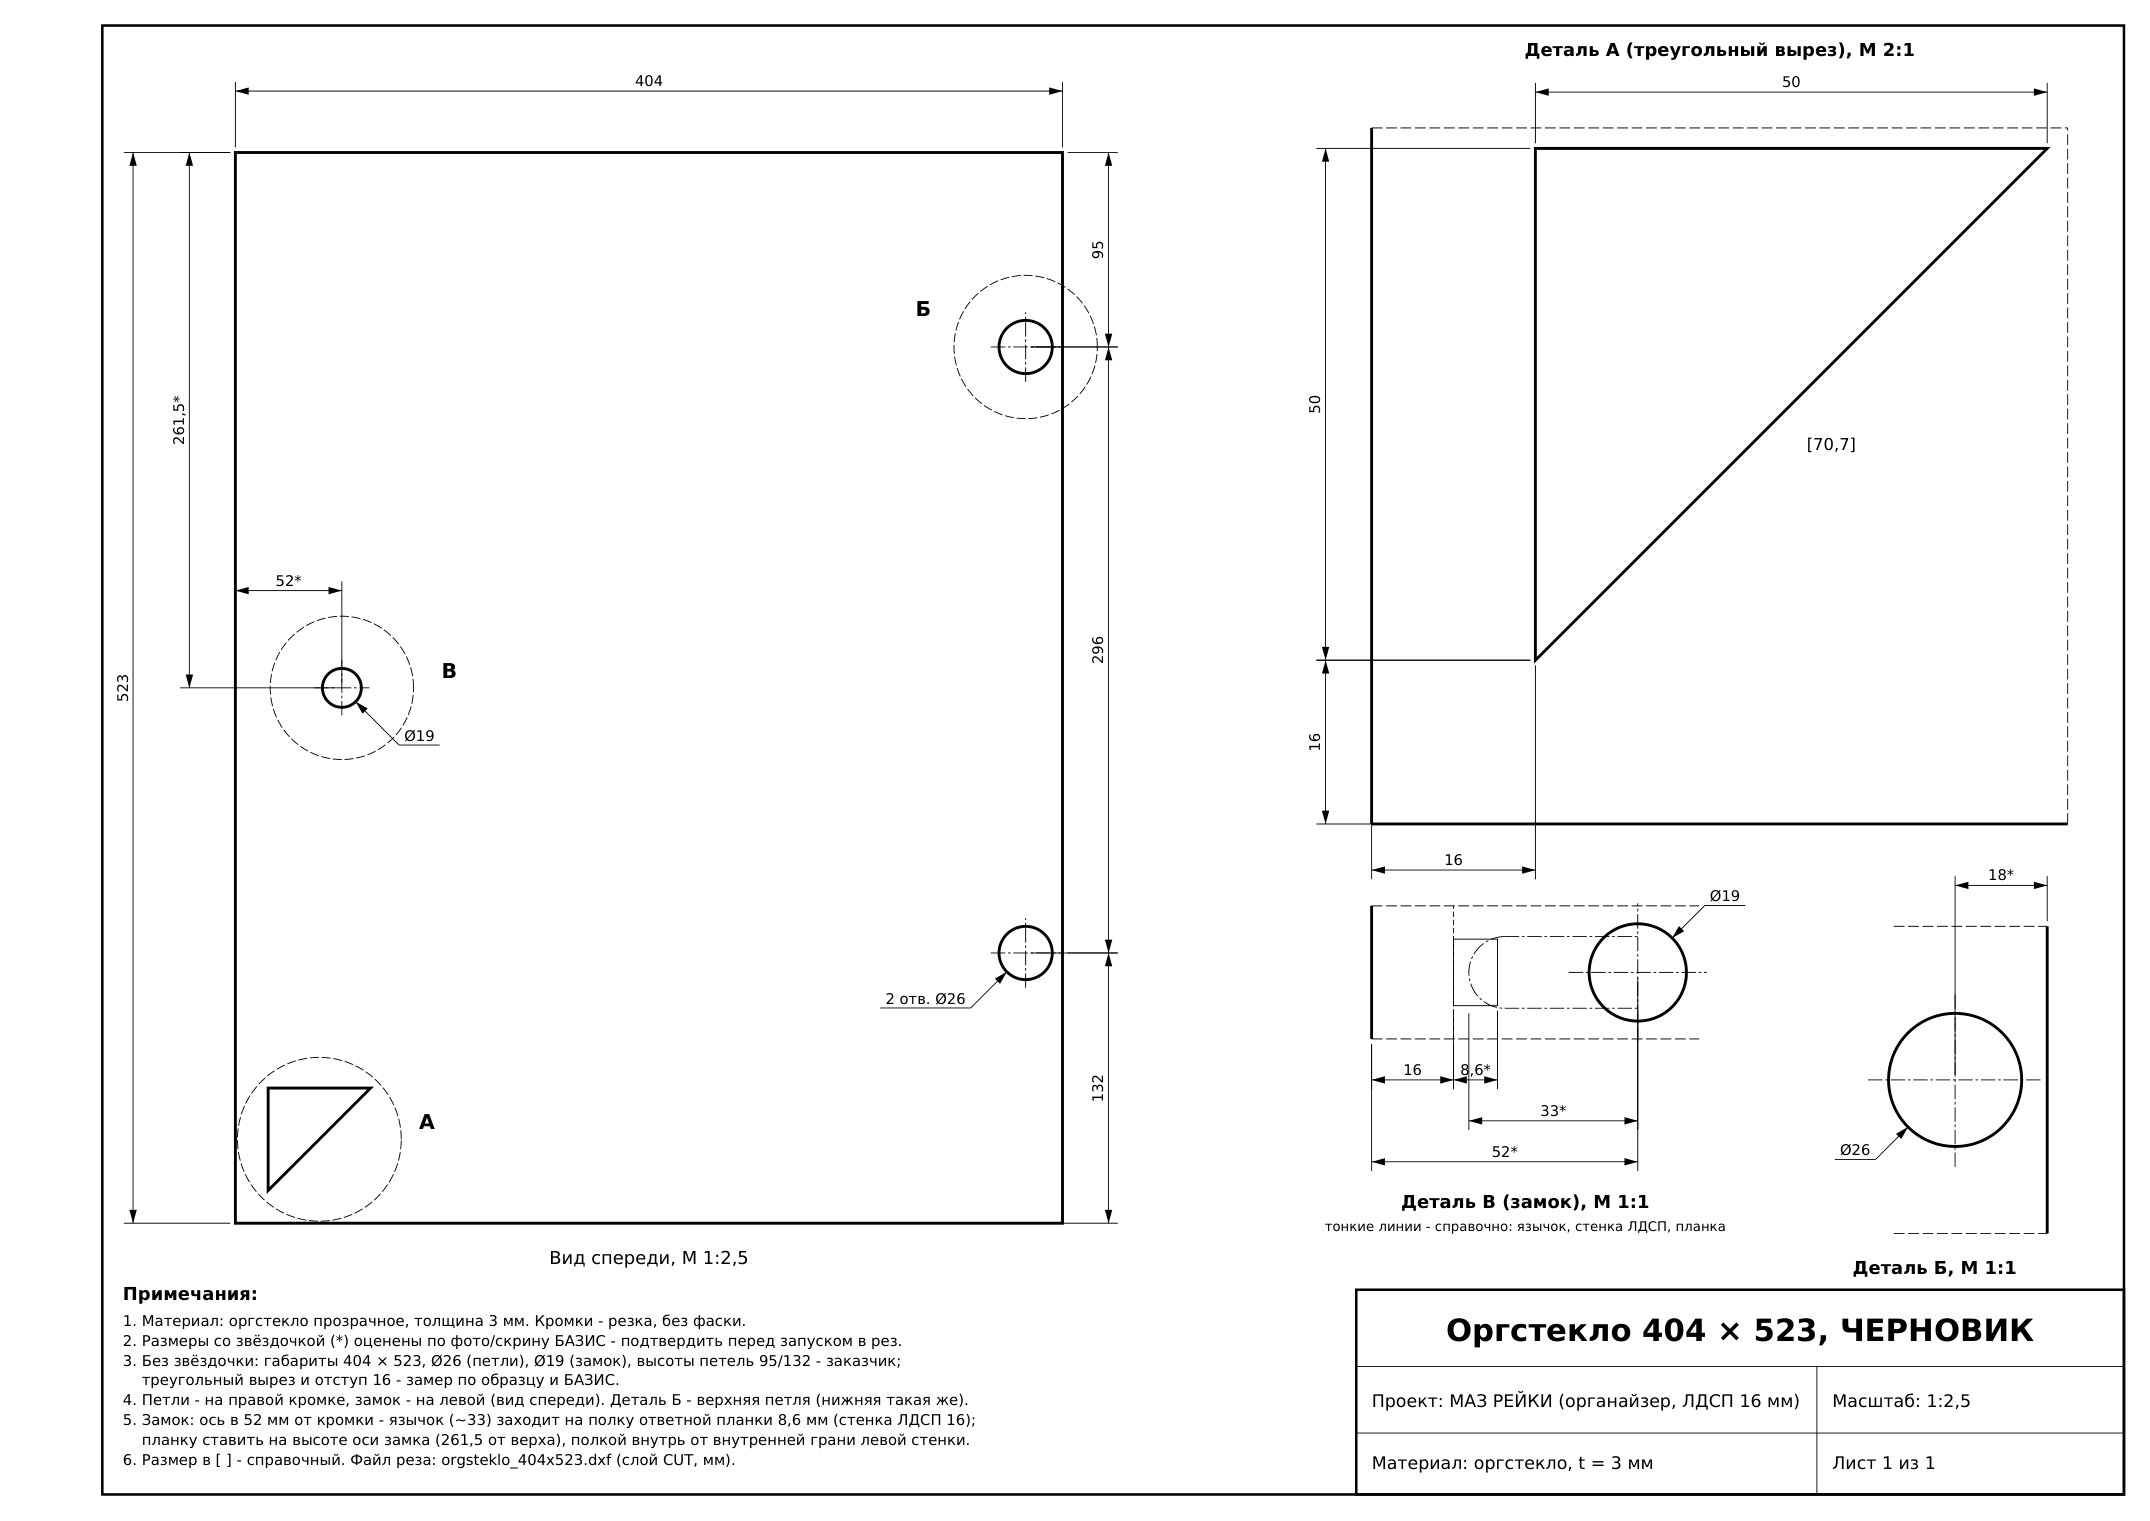
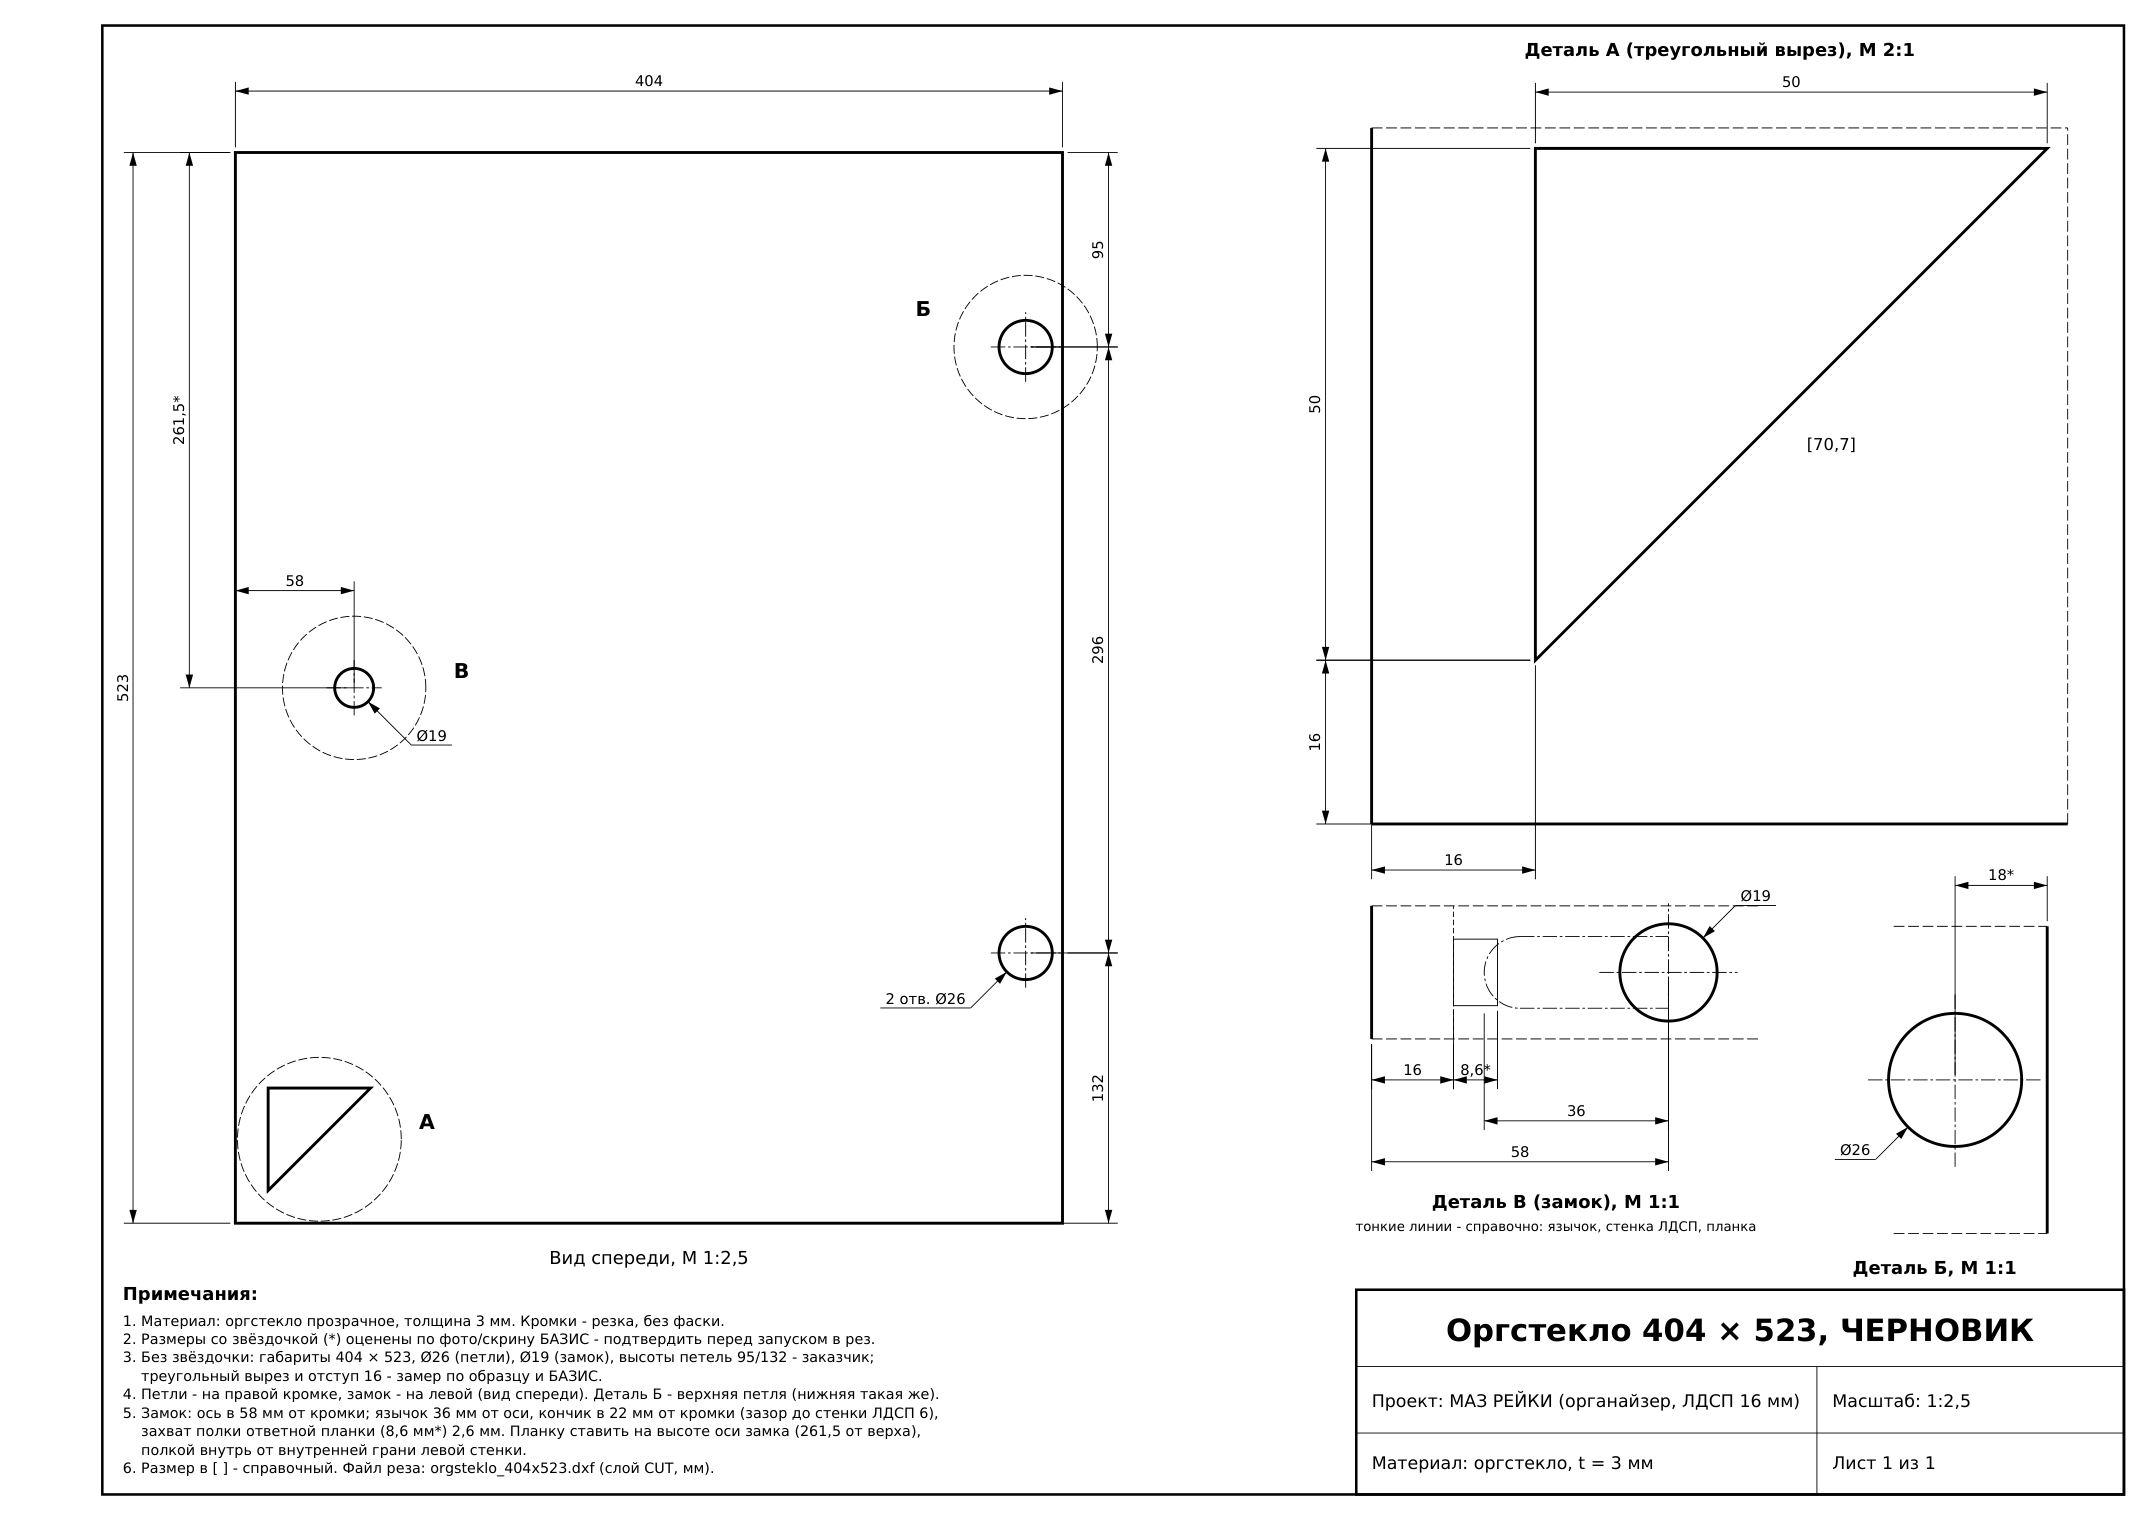
Shift lock 6 mm right: tab is 36 mm from axis, not 33
Lock axis now 58 mm from the left edge (tab tip 22 mm from the edge,
6 mm clearance to the panel, 2.6 mm engagement with the strike flange).

Claude-Session: https://claude.ai/code/session_01QVuusPSQmi2SUDWLHP9VEv

diff --git a/orgsteklo/make_drawing.py b/orgsteklo/make_drawing.py
@@ -38,15 +38,15 @@ P = dict(
     hinge_from_bottom=132.0, # * от нижней кромки до центра нижней петли - оценка по скрину БАЗИС
     # отверстие под замок (у левой кромки)
     lock_d=19.0,      # Ø под замок, круглое, без лысок - подтверждено заказчиком
-    lock_x=52.0,      # * ось замка от левой кромки - РАСЧЁТ, см. lock_calc() ниже
+    lock_x=58.0,      # ось замка от левой кромки = panel_t + tab_gap + tab_len (см. lock_calc)
     lock_from_top=261.5,  # * высота оси замка (середина) - на этой же высоте ставить планку
     # --- исходные данные для расчёта положения замка (по фото) ---
     panel_t=16.0,     # толщина ЛДСП: внутренняя грань левой стенки на x = 16 от кромки листа
-    tab_len=33.0,     # * вылет язычка от оси (фото: 31-36 мм, берём середину)
+    tab_len=36.0,     # вылет язычка от оси до кончика - подтверждено заказчиком
     tab_w=14.0,       # * ширина язычка (справочно)
     flange=8.6,       # * полка Г-образной ответной планки (фото 10), длина планки ~13 мм
     flange_len=13.0,
-    tab_gap=3.0,      # * на сколько кончик язычка отстоит от стенки (нужен зазор на поворот)
+    tab_gap=6.0,      # зазор кончик язычка - стенка; сдвиг замка на 6 мм вправо - по указанию заказчика
 )
 
 HERE = os.path.dirname(os.path.abspath(__file__))
@@ -299,7 +299,7 @@ def make_pdf(path, p=P):
     # привязка замка
     v.vdim(H - p["lock_from_top"], H, 0, -9, fmt(p["lock_from_top"]) + "*",
            x1=g["lock"][0], x2=0)
-    v.hdim(0, p["lock_x"], g["lock"][1], 19, fmt(p["lock_x"]) + "*",
+    v.hdim(0, p["lock_x"], g["lock"][1], 19, fmt(p["lock_x"]),
            y1=g["lock"][1], y2=g["lock"][1])
     # выноски
     v.leader(g["hinges"][1], hr, -135, 10, "2 отв. Ø" + fmt(hd), align="left")
@@ -367,8 +367,8 @@ def make_pdf(path, p=P):
     q = View(c, vx0, vy0, 1.0)
     hh = 13
     q.line((0, -hh), (0, hh))                                   # левая кромка листа
-    q.line((0, hh), (64, hh), THIN, [6, 2])                     # границы фрагмента
-    q.line((0, -hh), (64, -hh), THIN, [6, 2])
+    q.line((0, hh), (76, hh), THIN, [6, 2])                     # границы фрагмента
+    q.line((0, -hh), (76, -hh), THIN, [6, 2])
     q.circle((p["lock_x"], 0), p["lock_d"] / 2)                 # отверстие под замок
     q.centermarks((p["lock_x"], 0), p["lock_d"] / 2)
     tw, tl = p["tab_w"] / 2, p["tab_len"]
@@ -382,27 +382,31 @@ def make_pdf(path, p=P):
     # размеры - все снизу, тремя рядами
     q.hdim(0, p["panel_t"], -hh, -8, fmt(p["panel_t"]), y1=-hh, y2=-hh)
     q.hdim(p["panel_t"], p["panel_t"] + fl, -hh, -8, fmt(fl) + "*", y1=-fh, y2=-fh)
-    q.hdim(tip, p["lock_x"], -hh, -16, fmt(tl) + "*", y1=-tw, y2=-tw)
-    q.hdim(0, p["lock_x"], -hh, -24, fmt(p["lock_x"]) + "*", y1=-hh, y2=0)
+    q.hdim(tip, p["lock_x"], -hh, -16, fmt(tl), y1=-tw, y2=-tw)
+    q.hdim(0, p["lock_x"], -hh, -24, fmt(p["lock_x"]), y1=-hh, y2=0)
     q.leader((p["lock_x"], 0), p["lock_d"] / 2, 45, 9, "Ø" + fmt(p["lock_d"]), align="right")
-    text(c, vx0 + 30, vy0 - hh - 33, "Деталь В (замок), М 1:1", 3.5, "DVB", "c")
-    text(c, vx0 + 30, vy0 - hh - 37.5, "тонкие линии - справочно: язычок, стенка ЛДСП, планка", 2.6, "DV", "c")
+    text(c, vx0 + 36, vy0 - hh - 33, "Деталь В (замок), М 1:1", 3.5, "DVB", "c")
+    text(c, vx0 + 36, vy0 - hh - 37.5, "тонкие линии - справочно: язычок, стенка ЛДСП, планка", 2.6, "DV", "c")
 
     # ---------------- примечания ----------------
     text(c, 24, 43, "Примечания:", 3.5, "DVB")
+    lc_ = lock_calc(p)
+    assert abs(lc_["axis"] - p["lock_x"]) < 1e-9, "lock_x не совпадает с расчётом lock_calc"
     notes = [
         "1. Материал: оргстекло прозрачное, толщина %s мм. Кромки - резка, без фаски." % fmt(T),
         "2. Размеры со звёздочкой (*) оценены по фото/скрину БАЗИС - подтвердить перед запуском в рез.",
         "3. Без звёздочки: габариты 404 × 523, Ø26 (петли), Ø19 (замок), высоты петель 95/132 - заказчик;",
         "    треугольный вырез и отступ 16 - замер по образцу и БАЗИС.",
         "4. Петли - на правой кромке, замок - на левой (вид спереди). Деталь Б - верхняя петля (нижняя такая же).",
-        "5. Замок: ось в %s мм от кромки - язычок (~%s) заходит на полку ответной планки %s мм (стенка ЛДСП %s);" % (
-            fmt(p["lock_x"]), fmt(p["tab_len"]), fmt(p["flange"]), fmt(p["panel_t"])),
-        "    планку ставить на высоте оси замка (%s от верха), полкой внутрь от внутренней грани левой стенки." % fmt(p["lock_from_top"]),
+        "5. Замок: ось в %s мм от кромки; язычок %s мм от оси, кончик в %s мм от кромки (зазор до стенки ЛДСП %s)," % (
+            fmt(p["lock_x"]), fmt(p["tab_len"]), fmt(lc_["tip"]), fmt(p["tab_gap"])),
+        "    захват полки ответной планки (%s мм*) %s мм. Планку ставить на высоте оси замка (%s от верха)," % (
+            fmt(p["flange"]), fmt(lc_["overlap"]), fmt(p["lock_from_top"])),
+        "    полкой внутрь от внутренней грани левой стенки.",
         "6. Размер в [ ] - справочный. Файл реза: %s.dxf (слой CUT, мм)." % NAME,
     ]
     for i, n in enumerate(notes):
-        text(c, 24, 38 - i * 3.9, n, 2.9)
+        text(c, 24, 38 - i * 3.6, n, 2.8)
 
     # ---------------- штамп ----------------
     sx, sy, sw, sh = PW - 5 - 150, 5, 150, 40
